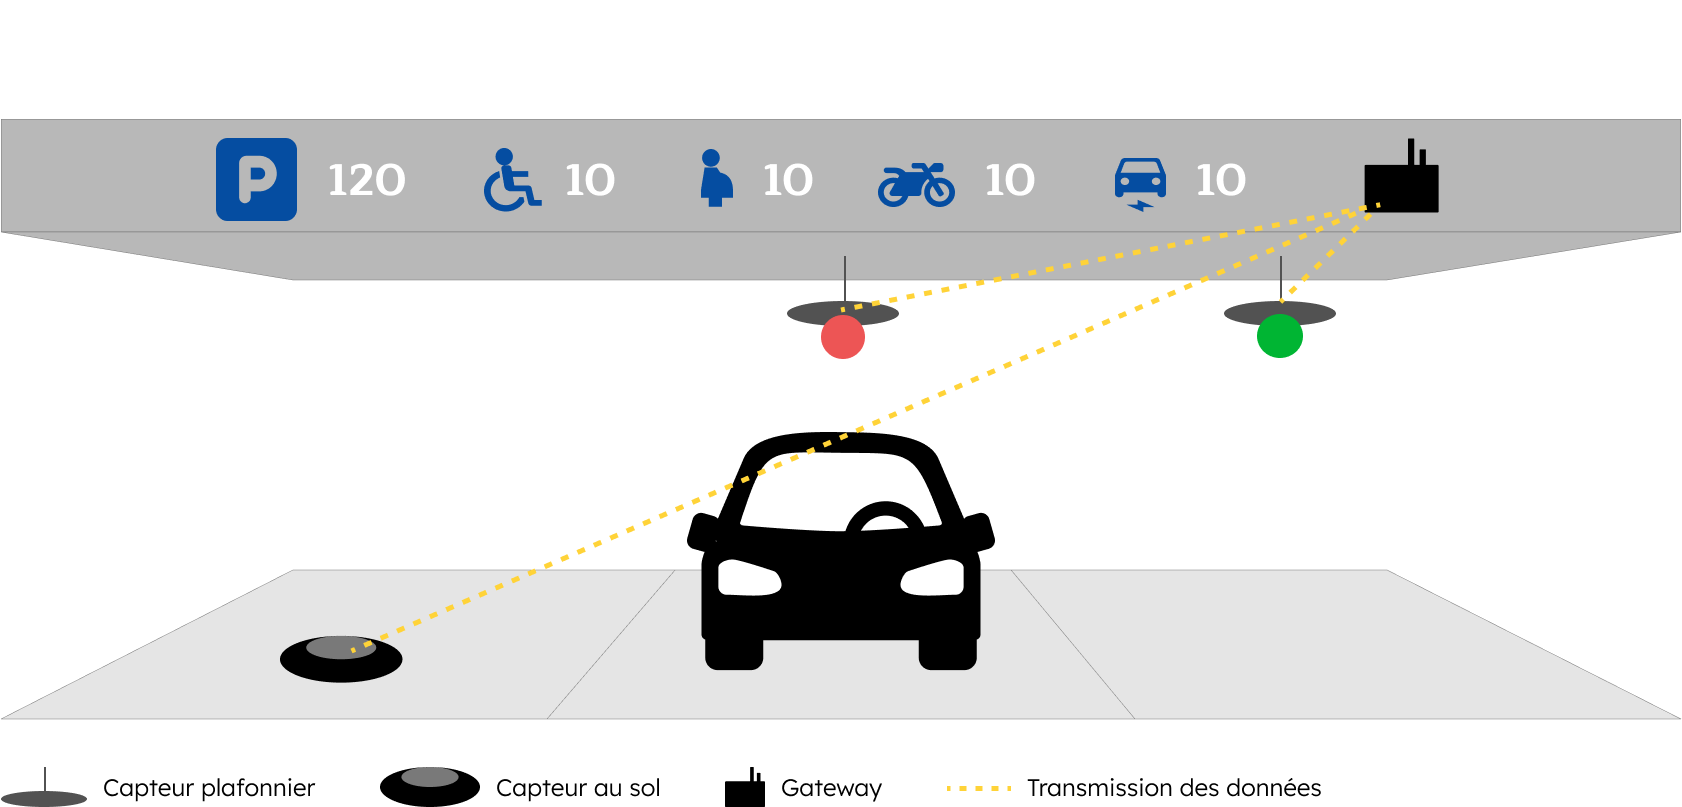
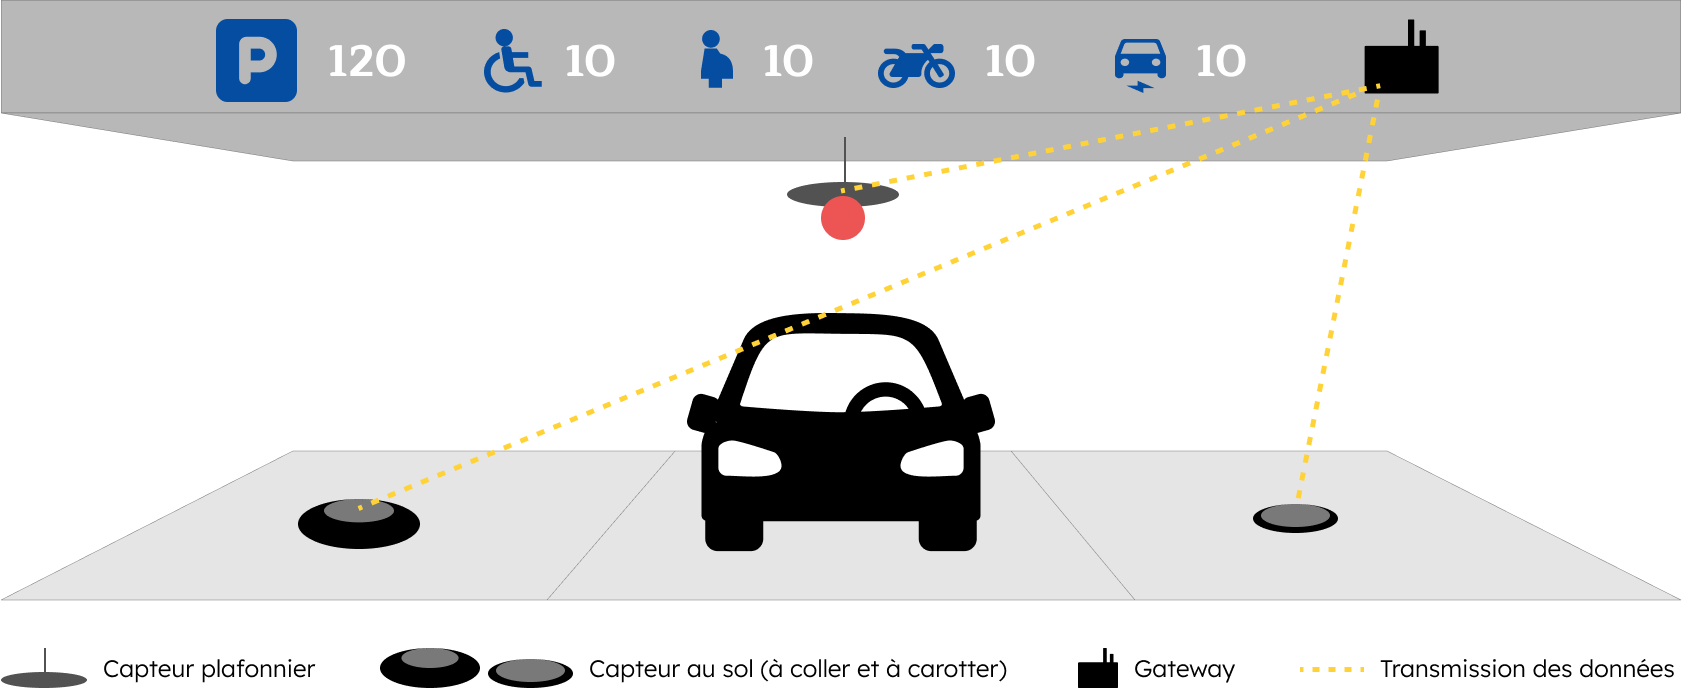
content updates

diff --git a/pages/wizzipark.jsx b/pages/wizzipark.jsx
@@ -11,8 +11,8 @@ export default function Wizzipark() {
             <div className='padding-tb'>
             <h2 className='test-weight'><span className='red'>WIZZIPARK</span></h2>
             <h2>La solution de stationnement intelligent en temps réel sans fil</h2>
-            <img className='solutions-img' src='/img/solutions/wizzipark.png' />
             </div>
+            <img className='solutions-img' src='/img/solutions/wizzipark.png' />
             <p>
             Des capteurs de stationnement sans fils et autonomes détectent instantanément l&apos;arrivée ou le départ de véhicules et relaient l&apos;information vers le Wizzicloud au travers de la gateway. Les visiteurs ont accès en temps réel aux places disponibles qui peuvent être communiquées sur des afficheurs dynamiques.
             </p>
@@ -22,7 +22,7 @@ export default function Wizzipark() {
             </p>
             <ul>
             <li>
-            Le <span>capteur au sol</span>, détectant la présence d&apos;un véhicule.
+            Le <span>capteur au sol</span> (à coller ou à carotter), détectant la présence d&apos;un véhicule.
             </li>
             <li>
                 Le <span>capteur plafonnier</span>, sa LED change de couleur en fonction du statut de la place et du cas d&apos;usage.
@@ -73,7 +73,7 @@ export default function Wizzipark() {
                         <ul>
                         <li>Identifie la présence d&apos;un véhicule</li>
                         <li>Envoie l&apos;information de présence à la gateway</li>
-                        <li>Deux options d&apos;installation : à<span className='cultured'>-</span>coller ou à<span className='cultured'>-</span>encastrer</li>
+                        <li>Deux options d&apos;installation : à<span className='cultured'>-</span>coller ou à<span className='cultured'>-</span>carotter</li>
                         </ul>
                     </div>
                     <div className='column-4'>

diff --git a/pages/wolt.jsx b/pages/wolt.jsx
@@ -14,7 +14,9 @@ export default function Wolt() {
                     </div>
                     <img className='solutions-img' src='/img/solutions/wolt.png' />
                     <p>
-                        WOLT se compose de tags, d’ancres et de gateways. Le tag (capteur) se localise par rapport aux ancres à une fréquence prédéfinie en fonction du cas d’usage. La donnée est envoyée dans le cloud à travers la gateway.
+                    WOLT est une solution de localisation sur site basée sur une infrastructure ultra légère sans fil. WOLT permet une localisation avec une précision sub-métrique. Les tag ont une options de localisation globale sur le réseau LoRaWAN.
+                    {/* <br/>
+                    Elle se compose de tags, d&apos;ancres et de gateways. Le tag (capteur) se localise par rapport aux ancres à une fréquence prédéfinie en fonction du cas d’usage. La donnée est envoyée dans le cloud à travers la gateway. */}
                     </p>
                     <p>
                         <span>3 niveaux de précisions de localisation </span>
@@ -38,7 +40,7 @@ export default function Wolt() {
                         </div>
                         <div className='column-3 six'>
                             <img className='picto' src='/img/pictos/wolt/2.svg' />
-                            <p className='center'>Installer facilement et rapidement notre système</p>
+                            <p className='center'>Installer facilement et rapidement notre solution</p>
                         </div>
                         <div className='column-3 six'>
                             <img className='picto' src='/img/pictos/wolt/3.svg' />

diff --git a/pages/savoir-faire.jsx b/pages/savoir-faire.jsx
@@ -18,7 +18,7 @@ export default function SavoirFaire() {
         <div className='content-col'>
           <div className='column-2'>
             <div className='padding-tb'>
-              <h3>Wizzilab vous accompagne dans votre transformation</h3>
+              <h3>Wizzilab vous accompagne dans votre transformation :</h3>
               <br/>
               <ul>
                 <li>
@@ -66,7 +66,7 @@ export default function SavoirFaire() {
             </div>
             <div className='column-3 six'>
               <img className='picto' src='/img/pictos/savoirfaire/3.svg' />
-              <p className='center'>Minimisant les interventions physiques</p>
+              <p className='center'>Minimisation des interventions physiques</p>
             </div>
             <div className='column-3 six'>
               <img className='picto' src='/img/pictos/savoirfaire/4.svg' />
@@ -88,7 +88,6 @@ export default function SavoirFaire() {
         <h3 className='padding-tb'>
           Notre expertise technique
         </h3>
-        <p>Une équipe experte dans les systèmes embarqués à faible consommation, les technologies sans fil IoT, la sécurité et les services cloud est à votre écoute</p>
         </div>
         <br/>
         <p className='underline'>

diff --git a/pages/wizziteam.jsx b/pages/wizziteam.jsx
@@ -11,7 +11,7 @@ export default function Wizziteam() {
                         <div className='margin-lr'>
                         <h2 className='denim'>WizziTeam</h2>
                         <br/>
-                    <h3>Notre vision : Améliorer votre environnement en digitalisant la donnée physique</h3>
+                    <h3>Notre vision : Les données des capteurs seront au coeur de la transformation numérique</h3>
                     <h5><span>“Si vous ne pouvez pas le mesurer, vous ne pouvez pas l’améliorer” - Peter Drucker</span></h5>
                         </div>
                 </div>

diff --git a/pages/index.jsx b/pages/index.jsx
@@ -40,7 +40,7 @@ export default function Home() {
             <img src='/img/processus/recolter.png' />
             <br />
             <p className='center'><span>Superviser à distance
-              et des API pour récolter vos données</span></p>
+              et récolter vos données</span></p>
           </div>
         </div>
 
